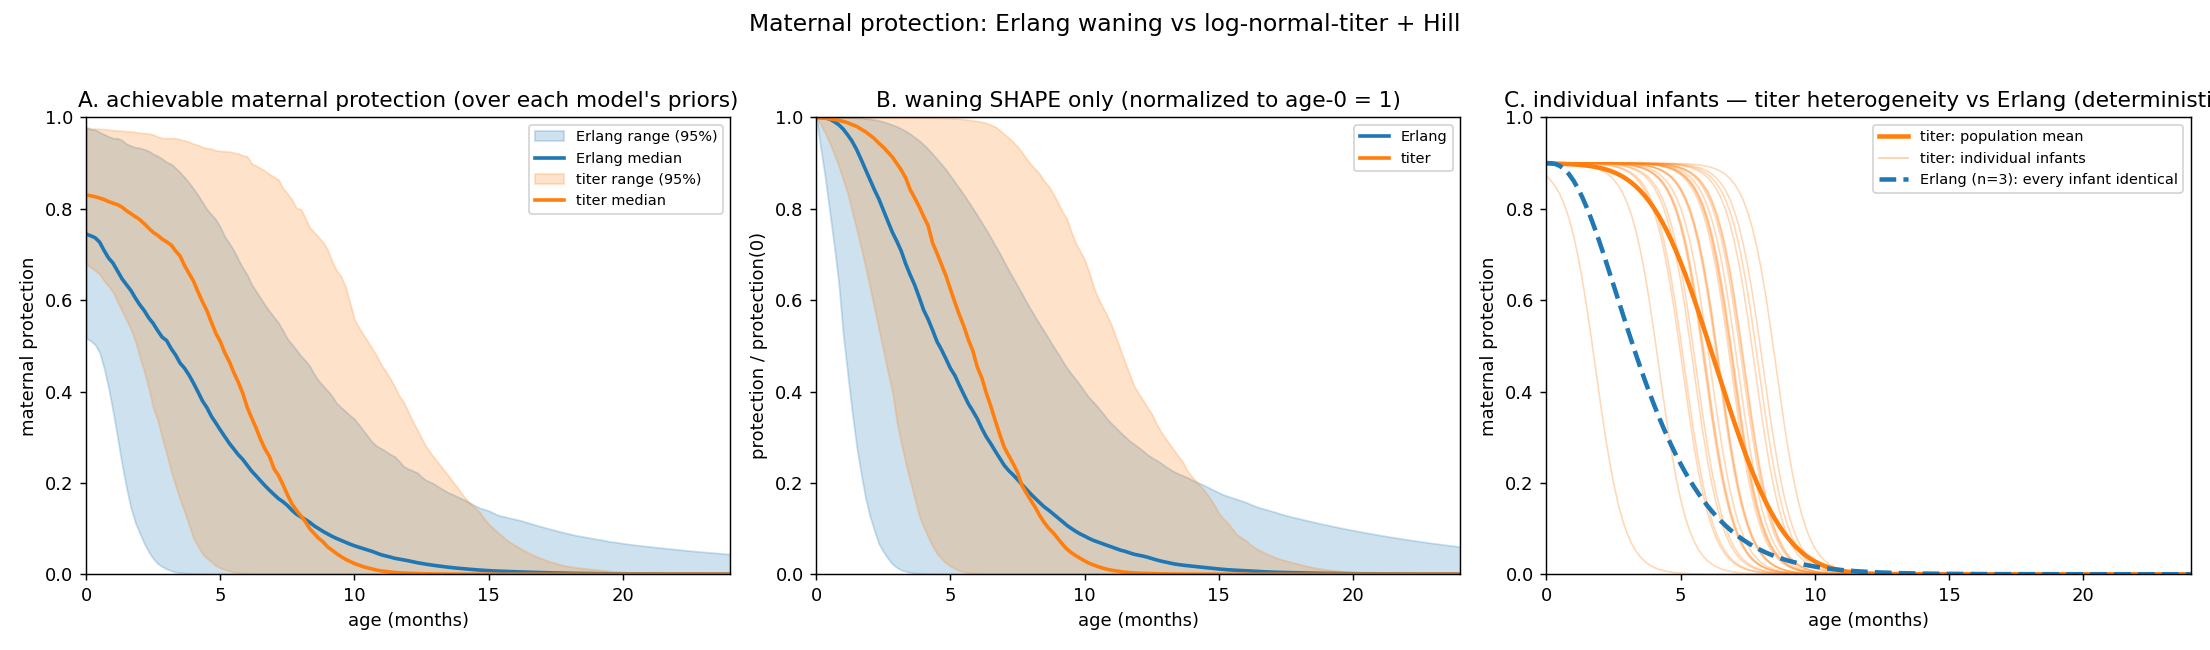
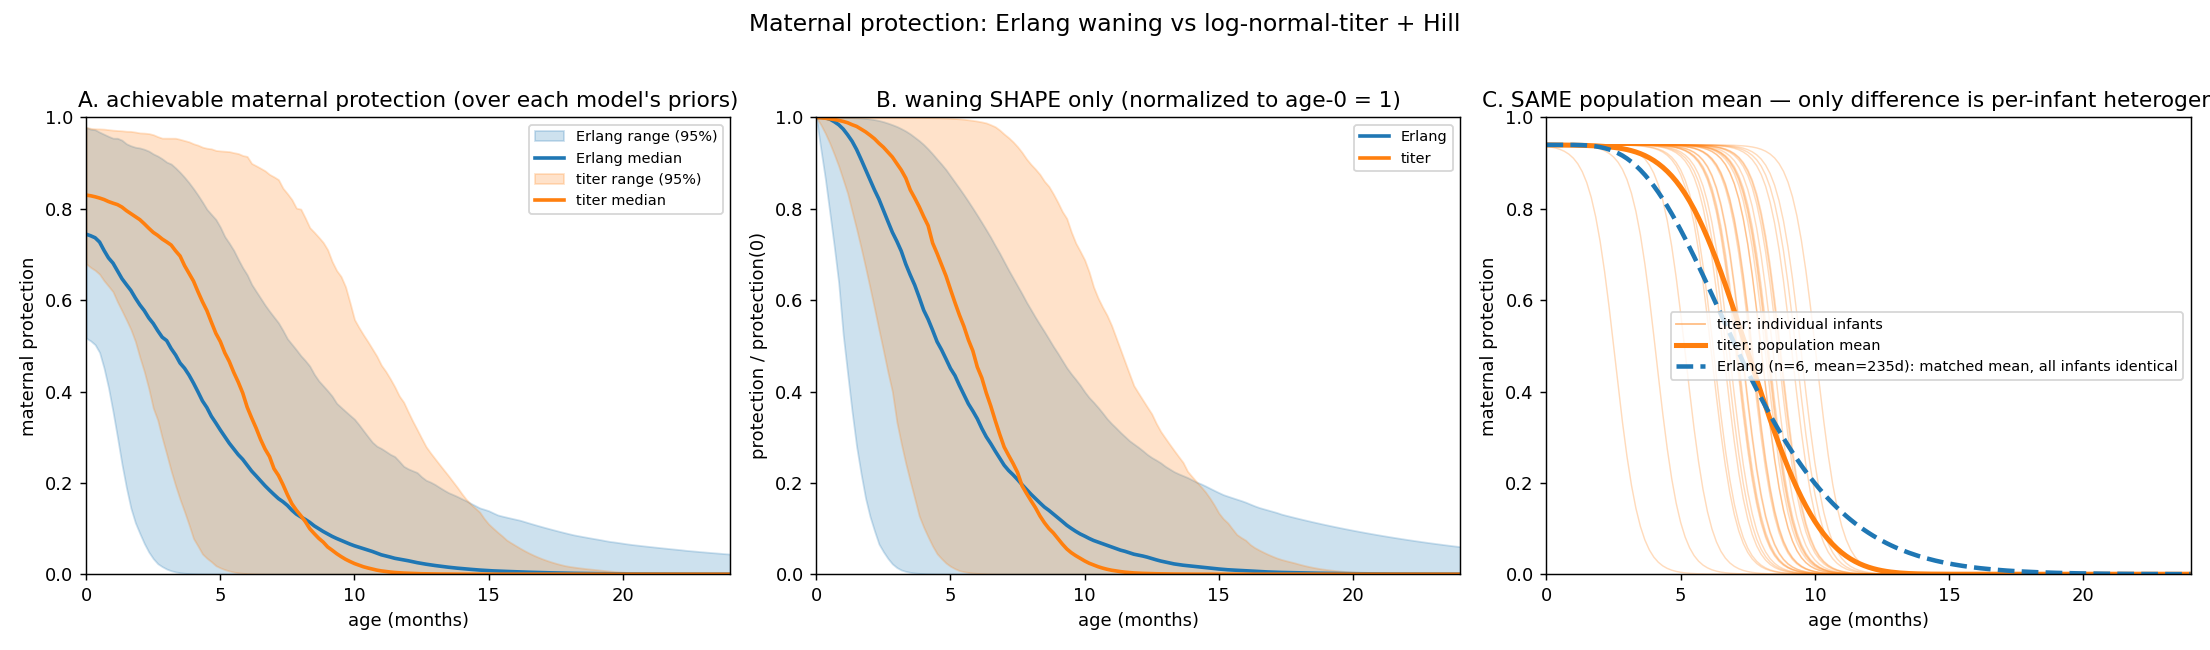
Exp 07: maternal-compare Panel C — match the population means (isolate heterogeneity)
Panel C previously conflated deterministic-vs-stochastic with a location shift (titer curve
right of Erlang). Now use exp-07 posterior-median titer params and FIT the Erlang (same
efficacy) to the titer population-mean curve, so the two means coincide and the only visible
difference is per-infant heterogeneity (titer individuals fan around the shared mean; Erlang
is one deterministic line).

Changed region(s): [[0.6869, 0.2154, 0.9991, 0.8923], [0.6869, 0.1231, 1.0, 0.3077]]

diff --git a/experiments/07_history_matching/plot_maternal_compare.py b/experiments/07_history_matching/plot_maternal_compare.py
@@ -81,20 +81,29 @@ def main():
     b.set_xlabel('age (months)'); b.set_ylabel('protection / protection(0)'); b.set_xlim(0, 24); b.set_ylim(0, 1)
     b.legend(fontsize=8)
 
-    # C. individual-level: titer heterogeneity vs Erlang's single deterministic curve
+    # C. individual-level: titer heterogeneity vs Erlang, with the POPULATION MEANS MATCHED
+    # so the only visible difference is per-infant spread (not a location shift). Titer params
+    # = exp-07 posterior medians; Erlang (same efficacy) is fit to the titer mean curve.
     c = axs[2]
-    eff, med, gsd, hl, slope, n_st = 0.9, 20.0, 2.2, 45.0, 4.0, 3
+    eff, med, gsd, hl, slope = 0.94, 26.3, 2.23, 49.3, 5.16     # ~ exp-07 posterior medians
+    tmean = titer_curve(eff, med, gsd, hl, slope)
+    best = None                                                 # fit Erlang(n, mean_dur) to titer mean
+    for n in range(1, 7):
+        for md in np.linspace(20, 365, 300):
+            sse = float(((erlang_curve(eff, md, n) - tmean) ** 2).sum())
+            if best is None or sse < best[0]:
+                best = (sse, n, md)
+    _, n_st, md_fit = best
     rngc = np.random.default_rng(1)
-    for _ in range(25):
+    for _ in range(30):
         t0 = med * np.exp(np.log(gsd) * rngc.standard_normal())
         titer = t0 * np.exp(-LN2 * AGE_Y / (hl / 365.25)); th = np.power(np.maximum(titer, 0), slope)
-        c.plot(AGE_M, eff * th / (th + 1), color=TIT, alpha=0.30, lw=0.9)
-    c.plot(AGE_M, titer_curve(eff, med, gsd, hl, slope), color=TIT, lw=2.5, label='titer: population mean')
-    c.plot([], [], color=TIT, alpha=0.4, lw=0.9, label='titer: individual infants')
-    # Erlang matched to a similar drop age (mean_dur s.t. half-protection ~ same age)
-    c.plot(AGE_M, erlang_curve(eff, 120.0, n_st), color=ERL, lw=2.5, ls='--',
-           label=f'Erlang (n={n_st}): every infant identical')
-    c.set_title('C. individual infants — titer heterogeneity vs Erlang (deterministic)')
+        c.plot(AGE_M, eff * th / (th + 1), color=TIT, alpha=0.28, lw=0.8)
+    c.plot([], [], color=TIT, alpha=0.5, lw=1.0, label='titer: individual infants')
+    c.plot(AGE_M, tmean, color=TIT, lw=2.8, label='titer: population mean')
+    c.plot(AGE_M, erlang_curve(eff, md_fit, n_st), color=ERL, lw=2.5, ls='--',
+           label=f'Erlang (n={n_st}, mean={md_fit:.0f}d): matched mean, all infants identical')
+    c.set_title('C. SAME population mean — only difference is per-infant heterogeneity')
     c.set_xlabel('age (months)'); c.set_ylabel('maternal protection'); c.set_xlim(0, 24); c.set_ylim(0, 1)
     c.legend(fontsize=8)
 
